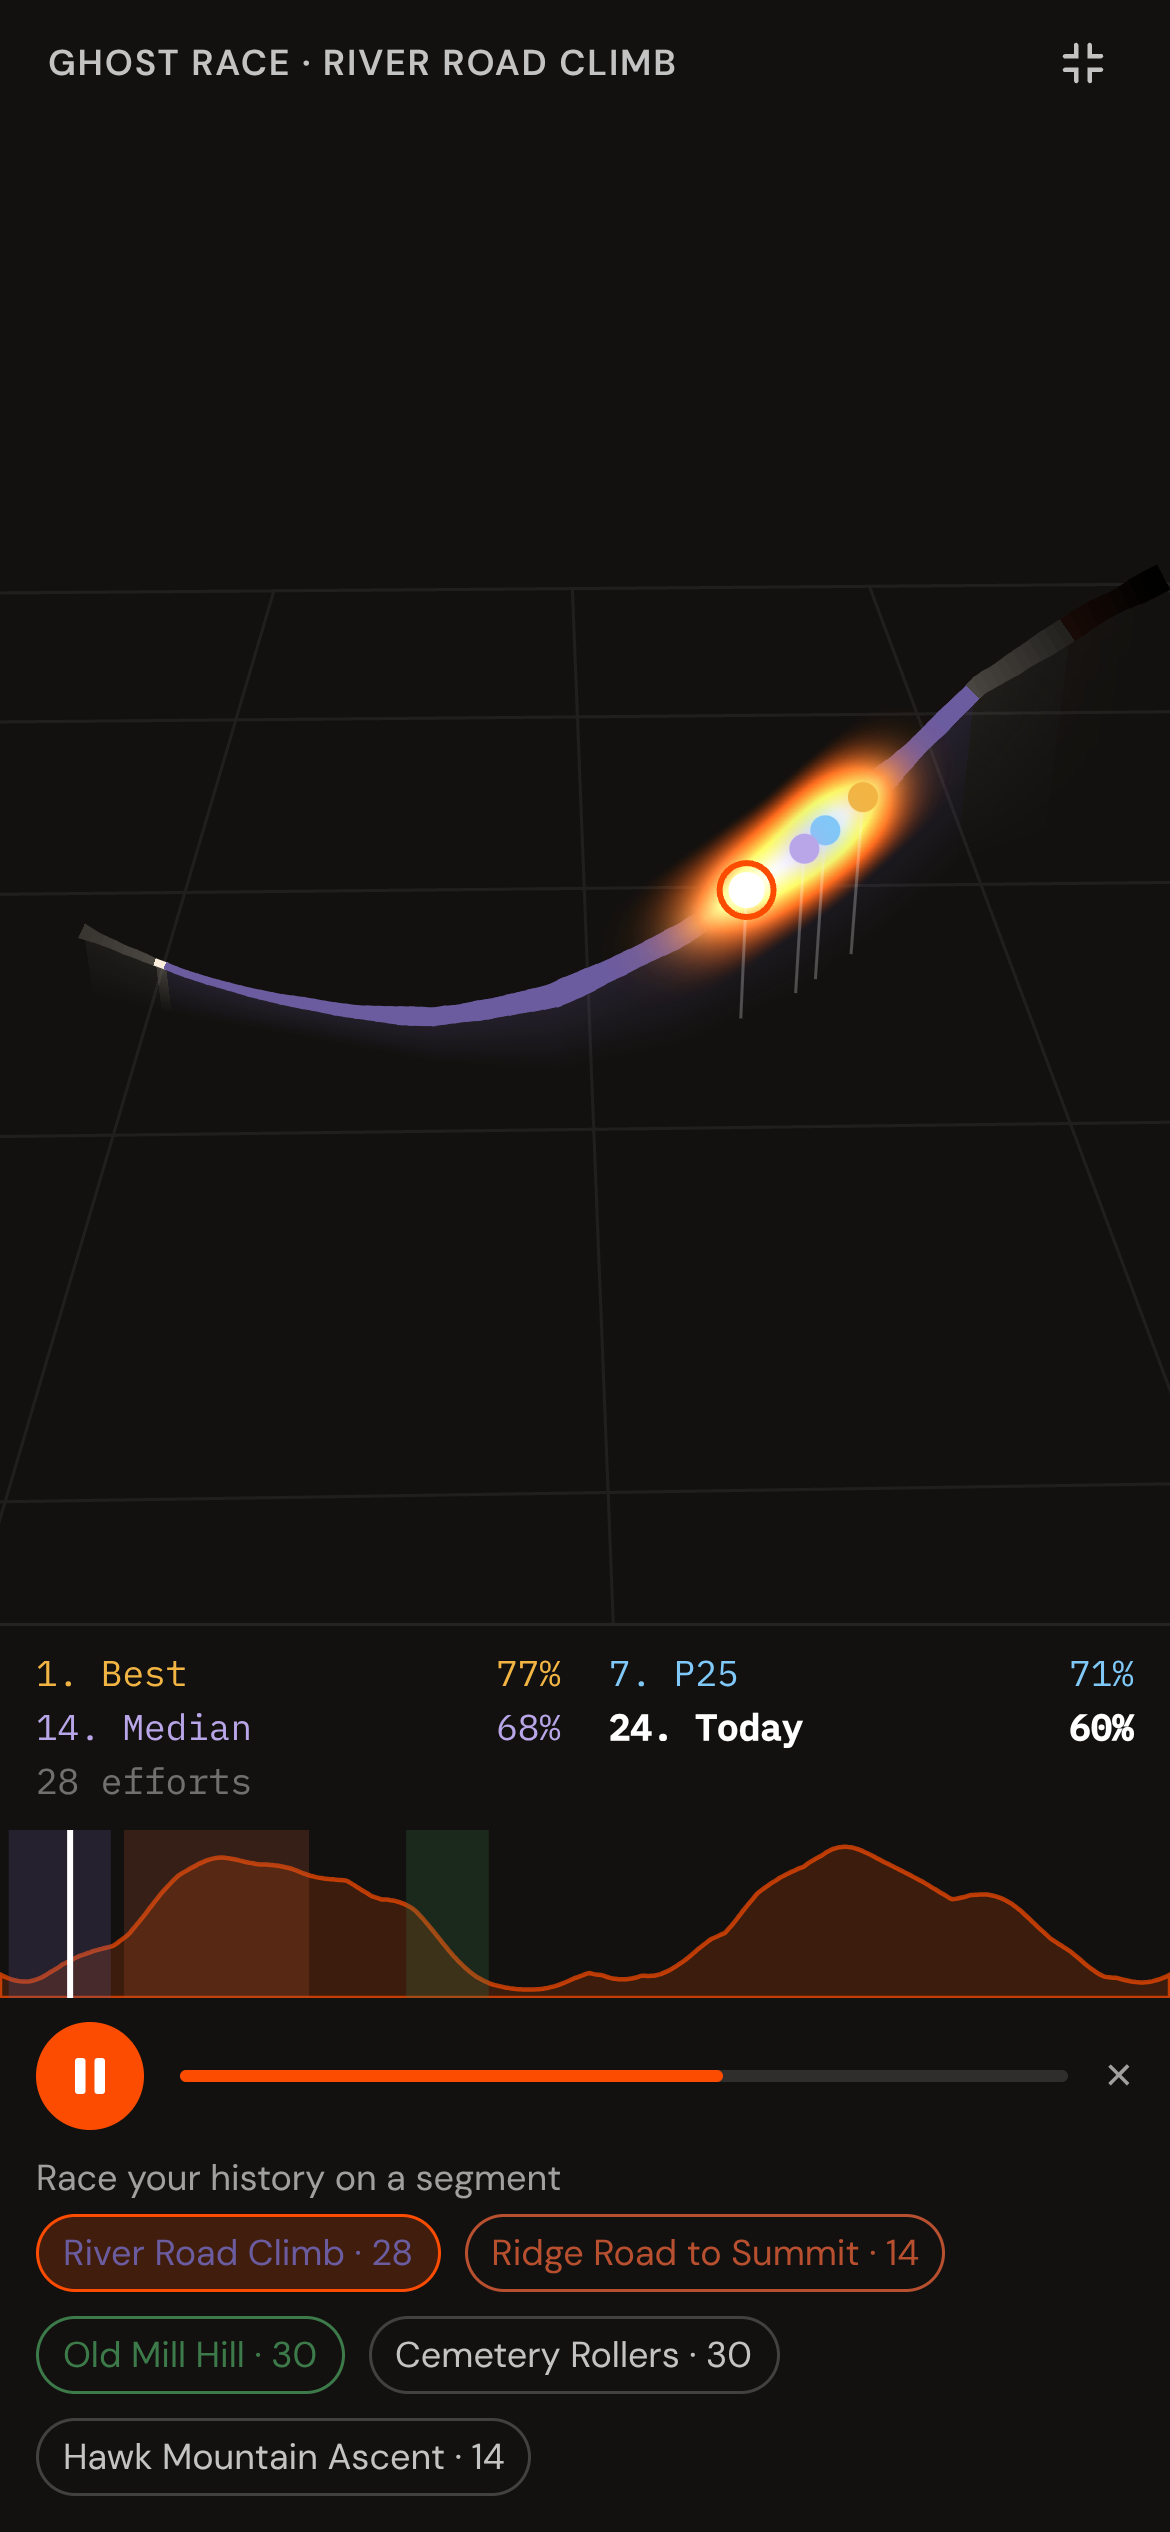
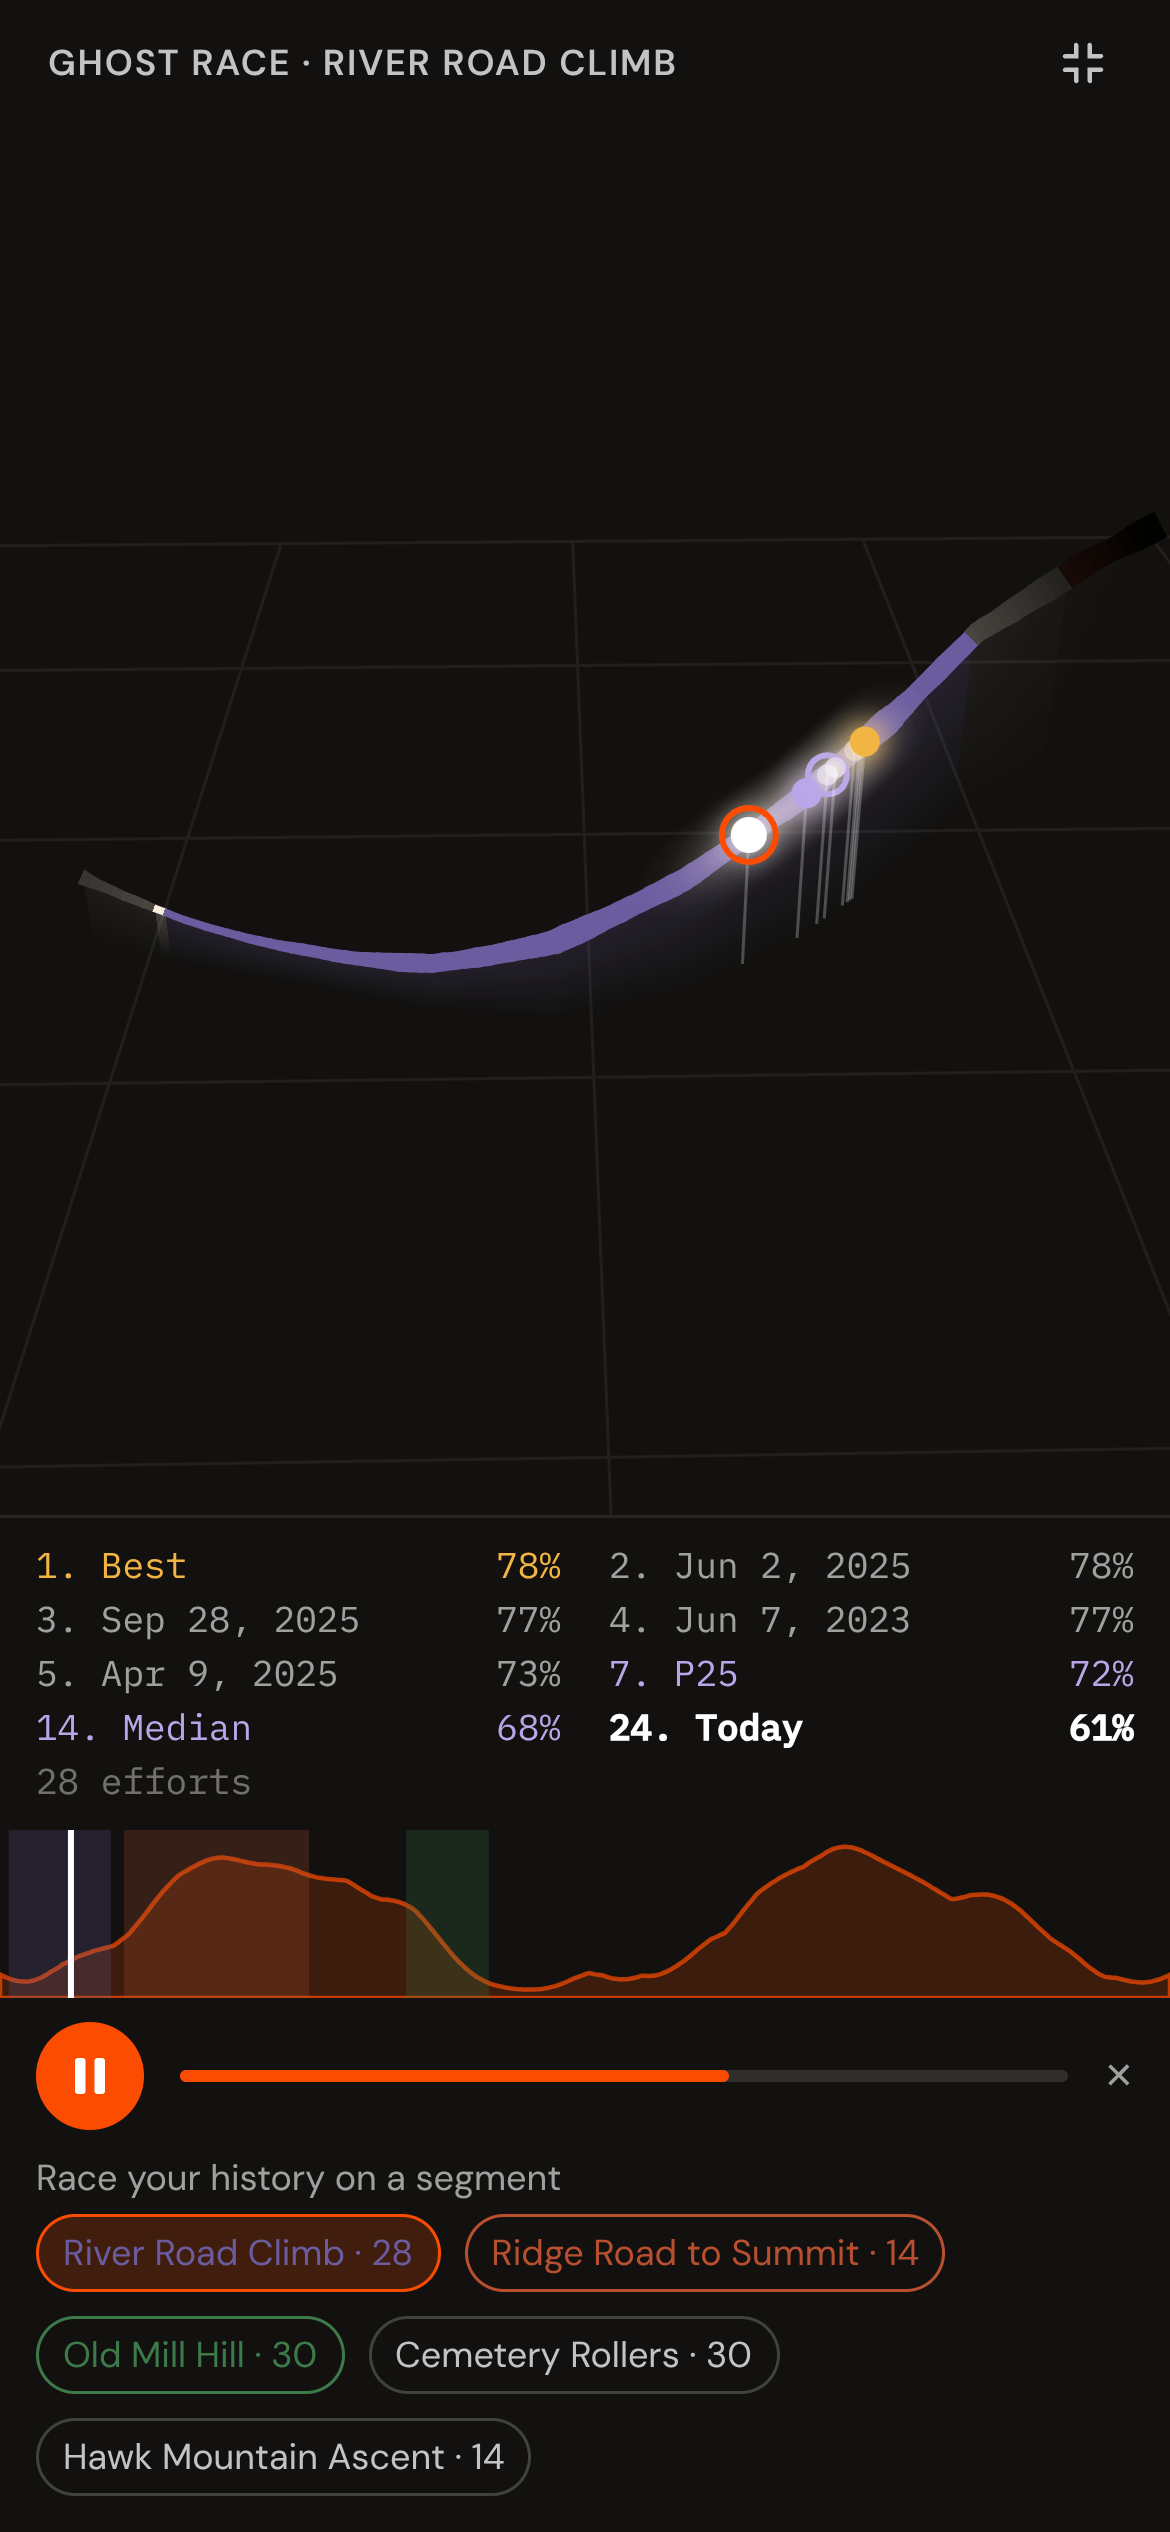
Ghost race: original dot styles for top five, plus P25; quieter glow
Dots and drop lines go back to the original styles (gold best, lavender
median, grey others) for the five fastest efforts, with P25 (lavender
ring), median and today always included. The crowd glow is now a faint
warm white behind the dots.

Claude-Session: https://claude.ai/code/session_01SamX7s5GCFhaPvFu8hzXBE

diff --git a/src/components/Dashboard.js b/src/components/Dashboard.js
@@ -132,7 +132,7 @@ const FAQ_ENTRIES = [
   {
     id: "ride-replay",
     question: "What is the ride replay and ghost race?",
-    answer: "Every ride with GPS gets a replay at the top of its page. The route is a tilted 3D ribbon: its width is your power (no power meter means an even line), its height is elevation, and a curtain under it shows the climbs. Press play and the ride draws itself at its own pace, compressed to 15, 30 or 60 seconds, so slow climbs linger and descents rush by. Segments where you earned an award light up in that award's colour as you finish them. Drag to turn the view, scroll to zoom, tap the elevation profile to jump, and use the corner button for full screen. Under the replay, pick a segment to race your history: every stored effort on it runs with you, paced like today's effort and scaled to its own time. Together they form a glowing crowd that slides up the road: bright where many of your past efforts are bunched, faint where they've spread out. Four get their own marker: today (white), your best (gold), your 25th-percentile time (blue) and your median (lavender), with a live leaderboard for those four. The GPS data is fetched from Strava once per ride, the first time you open it, and kept on your device.",
+    answer: "Every ride with GPS gets a replay at the top of its page. The route is a tilted 3D ribbon: its width is your power (no power meter means an even line), its height is elevation, and a curtain under it shows the climbs. Press play and the ride draws itself at its own pace, compressed to 15, 30 or 60 seconds, so slow climbs linger and descents rush by. Segments where you earned an award light up in that award's colour as you finish them. Drag to turn the view, scroll to zoom, tap the elevation profile to jump, and use the corner button for full screen. Under the replay, pick a segment to race your history: every stored effort on it runs with you, paced like today's effort and scaled to its own time. Together they form a faint glowing crowd that slides up the road, brighter where many of your past efforts are bunched. Your five fastest efforts, your 25th-percentile and median times, and today get their own dots (gold for your best, lavender for the median, a lavender ring for the 25th percentile, white for today), with a live leaderboard. The GPS data is fetched from Strava once per ride, the first time you open it, and kept on your device.",
   },
   {
     id: "ride-streak",
@@ -1841,7 +1841,7 @@ export function Dashboard() {
                   <svg class="w-4 h-4 group-open:rotate-180 transition-transform flex-shrink-0 ml-2" style="color: var(--text-tertiary);" fill="none" viewBox="0 0 24 24" stroke="currentColor" stroke-width="2"><path stroke-linecap="round" stroke-linejoin="round" d="M19 9l-7 7-7-7"/></svg>
                 </summary>
                 <div class="pt-3 pb-1" style="font-family: var(--font-body); font-size: 0.875rem; color: var(--text-secondary);">
-                  Every ride with GPS gets a replay at the top of its page. The route is a tilted 3D ribbon: its width is your power (no power meter means an even line), its height is elevation, and a curtain under it shows the climbs. Press play and the ride draws itself at its own pace, compressed to 15, 30 or 60 seconds, so slow climbs linger and descents rush by. Segments where you earned an award light up in that award's colour as you finish them. Drag to turn the view, scroll to zoom, tap the elevation profile to jump, and use the corner button for full screen. Under the replay, pick a segment to race your history: every stored effort on it runs with you, paced like today's effort and scaled to its own time. Together they form a glowing crowd that slides up the road: bright where many of your past efforts are bunched, faint where they've spread out. Four get their own marker: today (white), your best (gold), your 25th-percentile time (blue) and your median (lavender), with a live leaderboard for those four. The GPS data is fetched from Strava once per ride, the first time you open it, and kept on your device.
+                  Every ride with GPS gets a replay at the top of its page. The route is a tilted 3D ribbon: its width is your power (no power meter means an even line), its height is elevation, and a curtain under it shows the climbs. Press play and the ride draws itself at its own pace, compressed to 15, 30 or 60 seconds, so slow climbs linger and descents rush by. Segments where you earned an award light up in that award's colour as you finish them. Drag to turn the view, scroll to zoom, tap the elevation profile to jump, and use the corner button for full screen. Under the replay, pick a segment to race your history: every stored effort on it runs with you, paced like today's effort and scaled to its own time. Together they form a faint glowing crowd that slides up the road, brighter where many of your past efforts are bunched. Your five fastest efforts, your 25th-percentile and median times, and today get their own dots (gold for your best, lavender for the median, a lavender ring for the 25th percentile, white for today), with a live leaderboard. The GPS data is fetched from Strava once per ride, the first time you open it, and kept on your device.
                 </div>
               </details>
 

diff --git a/src/components/RideReplay.js b/src/components/RideReplay.js
@@ -19,8 +19,9 @@ import {
 import { createRideGPURenderer, createRideCanvasRenderer } from "../ride-render.js";
 
 const DOT_COLORS = Object.fromEntries(Object.entries(AWARD_LABELS).map(([k, v]) => [k, v.dot]));
-const GOLD = "#F2B544", SKY = "#7FC8F8", LAVENDER = "#B9A6E8";
-const ghostColor = (g) => (g.isThis ? "#ffffff" : g.isBest ? GOLD : g.isP25 ? SKY : LAVENDER);
+const GOLD = "#F2B544", LAVENDER = "#B9A6E8", GHOST = "rgba(255,255,255,0.45)";
+const ghostColor = (g) => (g.isThis ? "#ffffff" : g.isBest ? GOLD : g.isMedian ? LAVENDER : GHOST);
+const ghostText = (g) => (g.isThis ? "#fff" : g.isBest ? GOLD : g.isMedian || g.isP25 ? LAVENDER : "rgba(255,255,255,0.6)");
 const muted = "font-family: var(--font-body); color: rgba(255,255,255,0.6);";
 
 // The effect re-runs when awards finish loading; share one Strava request
@@ -222,9 +223,9 @@ export function RideReplay({ activity, awards }) {
     c.width = c.height = 64;
     const g = c.getContext("2d");
     const grad = g.createRadialGradient(32, 32, 0, 32, 32, 32);
-    grad.addColorStop(0, "rgba(255,214,150,1)");
-    grad.addColorStop(0.4, "rgba(252,140,60,0.55)");
-    grad.addColorStop(1, "rgba(252,76,2,0)");
+    grad.addColorStop(0, "rgba(255,240,225,1)");
+    grad.addColorStop(0.5, "rgba(255,240,225,0.35)");
+    grad.addColorStop(1, "rgba(255,240,225,0)");
     g.fillStyle = grad;
     g.fillRect(0, 0, 64, 64);
     return (spriteRef.current = c);
@@ -245,8 +246,8 @@ export function RideReplay({ activity, awards }) {
       if (a[b] < 0.01 || pts[b][2] <= 0) continue;
       const nb = pts[Math.min(pts.length - 1, b + 1)], pb = pts[Math.max(0, b - 1)];
       const step = Math.hypot(nb[0] - pb[0], nb[1] - pb[1]) / 2;
-      const r = Math.max(22 * dpr, 3 * step);
-      ctx.globalAlpha = a[b] * 0.42;
+      const r = Math.max(16 * dpr, 2.5 * step);
+      ctx.globalAlpha = a[b] * 0.12;
       ctx.drawImage(img, pts[b][0] - r, pts[b][1] - r, 2 * r, 2 * r);
     }
     ctx.globalAlpha = 1;
@@ -269,8 +270,9 @@ export function RideReplay({ activity, awards }) {
     ctx.clearRect(0, 0, o.width, o.height);
     if (rc && clock != null) {
       drawCrowd(ctx, cam, s, rc, clock);
-      for (const g of rc.ghosts.filter((g) => g.marked && !g.isThis)) {
-        dot(ctx, cam, pointAtDistance(s, rc.dA + rc.progress(g, clock)), ghostColor(g), 5, null);
+      for (const g of rc.ghosts.filter((g) => g.marked && !g.isThis).reverse()) {
+        dot(ctx, cam, pointAtDistance(s, rc.dA + rc.progress(g, clock)), ghostColor(g),
+          g.isBest || g.isMedian ? 5 : 3.5, g.isP25 ? LAVENDER : null);
       }
       const me = rc.ghosts.find((g) => g.isThis);
       dot(ctx, cam, pointAtDistance(s, rc.dA + rc.progress(me, clock)), "#ffffff", 6, "#FC4C02");
@@ -480,7 +482,7 @@ export function RideReplay({ activity, awards }) {
       ${order && html`
         <ol data-testid="leaderboard" class="text-xs px-3 py-2" style="font-family: var(--font-mono); color: rgba(255,255,255,0.8); display: grid; grid-template-columns: repeat(auto-fill, minmax(8.5rem, 1fr)); column-gap: 1rem; row-gap: 2px; border-top: 1px solid rgba(255,255,255,0.08);">
           ${order.filter((s) => s.g.marked).map((s) => html`
-            <li class="flex justify-between gap-3" style="color: ${ghostColor(s.g)}; font-weight: ${s.g.isThis ? 600 : 400};">
+            <li class="flex justify-between gap-3" style="color: ${ghostText(s.g)}; font-weight: ${s.g.isThis ? 600 : 400};">
               <span>${s.rank}. ${ghostLabel(s.g)}</span>
               <span>${s.done ? formatTime(s.g.elapsed) : `${Math.round(s.frac * 100)}%`}</span>
             </li>`)}

diff --git a/src/ride-scene.js b/src/ride-scene.js
@@ -176,8 +176,8 @@ export function hexToRgb(hex) {
  * Ghost race on one segment: every stored effort runs the stretch this ride
  * covered between the effort's start and end. Ghosts are paced like this
  * effort, scaled to their own elapsed time, so climbs slow everyone alike.
- * All of them feed the crowd glow; today, best, P25 and median also get a
- * marker (`marked`).
+ * All of them feed the crowd glow; the five fastest, P25, median and today
+ * also get a dot (`marked`).
  */
 export function buildGhostRace(scene, effort, history) {
   const dA = sampleAt(scene, effort.tA).d;
@@ -188,8 +188,9 @@ export function buildGhostRace(scene, effort, history) {
   const sorted = [...all.values()].sort((a, b) => a.elapsed_time - b.elapsed_time);
   const at = (q) => sorted[Math.floor(q * (sorted.length - 1))];
   const best = sorted[0], p25 = at(0.25), median = at(0.5);
-  const ghosts = sorted.map((e) => {
+  const ghosts = sorted.map((e, i) => {
     const g = {
+      isTop: i < 5,
       effort_id: e.effort_id,
       elapsed: e.elapsed_time,
       date: e.start_date_local || e.start_date || null,
@@ -198,7 +199,7 @@ export function buildGhostRace(scene, effort, history) {
       isP25: e === p25 && e !== best,
       isMedian: e === median && e !== best && e !== p25,
     };
-    g.marked = g.isThis || g.isBest || g.isP25 || g.isMedian;
+    g.marked = g.isTop || g.isThis || g.isP25 || g.isMedian;
     return g;
   });
   return {

diff --git a/test/ride-scene.test.js b/test/ride-scene.test.js
@@ -102,14 +102,15 @@ test('colours only the best few non-overlapping award efforts', () => {
   assert.ok(lit.some((e) => e.effort_id === 111), 'highest score kept');
 });
 
-test('marks today, best, P25 and median; everyone else is glow only', () => {
+test('marks the five fastest, P25, median and today; everyone else is glow only', () => {
   const s = buildRideScene(streams(), activity);
   const history = Array.from({ length: 20 }, (_, i) => ({ effort_id: 100 + i, elapsed_time: 40 + i * 3, start_date: '2025-01-01' }));
   history.push({ effort_id: 7, elapsed_time: 60, start_date: '2026-03-14' });
   const race = buildGhostRace(s, s.efforts[0], history);
   assert.equal(race.ghosts.length, 21);
   const marked = race.ghosts.filter((g) => g.marked);
-  assert.equal(marked.length, 4);
+  assert.equal(marked.length, 8);
+  assert.deepEqual(marked.filter((g) => g.isTop).map((g) => g.elapsed), [40, 43, 46, 49, 52]);
   assert.equal(marked.find((g) => g.isBest).elapsed, 40);
   assert.equal(marked.find((g) => g.isP25).elapsed, 55);
   assert.equal(marked.find((g) => g.isMedian).elapsed, 67);

diff --git a/sw.js b/sw.js
@@ -4,7 +4,7 @@
  * All Strava data lives in IndexedDB — SW just needs to serve the app offline.
  */
 
-const CACHE_NAME = "aeyu-v24";
+const CACHE_NAME = "aeyu-v25";
 
 const APP_SHELL = [
   "/",

diff --git a/CHANGELOG.md b/CHANGELOG.md
@@ -16,7 +16,7 @@ All merged pull requests for [aeyu.io](https://aeyu.io), a Strava-powered cyclin
 
 ### Ghost race crowd glow
 
-- **Crowd glow in the ghost race** — every stored effort on the segment now races, not just 30. They're drawn as a kernel density estimate: a Gaussian on each ghost still riding, summed along the segment and stamped as a glow with additive blending. A tight pack is a bright patch; a spread-out field fades. Ghosts leave the glow as they finish. Bandwidth follows Silverman's rule, with a floor of 2% of the segment (minimum 10 m). Only today, best, P25 and median keep a dot and drop line, and the leaderboard lists just those four with their ranks among all efforts. The race clock runs to the P90 time, or today's if that's longer, so one stopped-at-the-lights effort can't stretch it.
+- **Crowd glow in the ghost race** — every stored effort on the segment now races, not just 30. They're drawn as a kernel density estimate: a Gaussian on each ghost still riding, summed along the segment and stamped as a glow with additive blending. A tight pack is a bright patch; a spread-out field fades. Ghosts leave the glow as they finish. Bandwidth follows Silverman's rule, with a floor of 2% of the segment (minimum 10 m). Dots and drop lines are kept for the five fastest efforts, the P25 and median efforts, and today, in the original styles. The leaderboard lists those with their ranks among all efforts. The glow is a faint warm white, so it reads as a halo behind the dots and doesn't compete with them. The race clock runs to the P90 time, or today's if that's longer, so one stopped-at-the-lights effort can't stretch it.
 
 ### Heatmap place names
 
